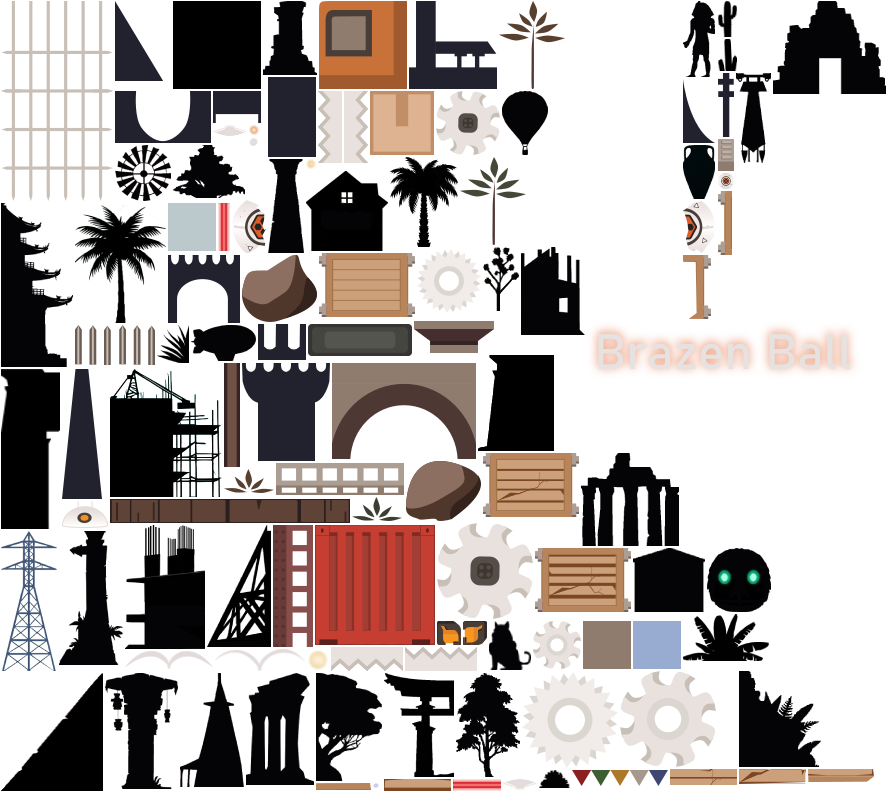
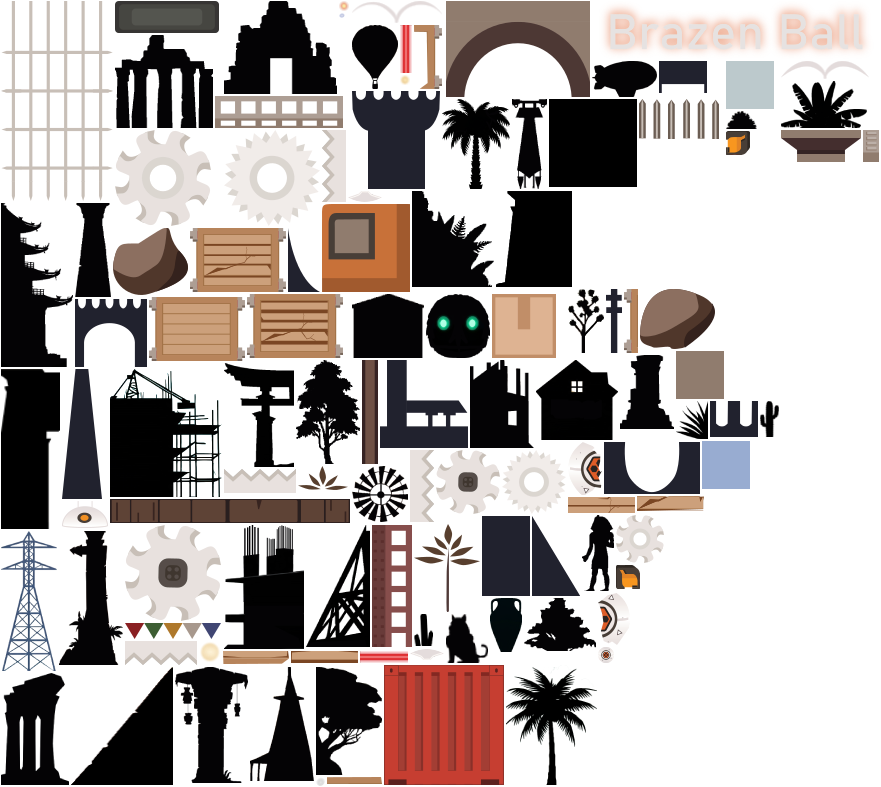
Add Industrial

diff --git a/lib/utils/index.js b/lib/utils/index.js
@@ -177,14 +177,23 @@ export class ObjGraph {
     }
 
     addNodes(nodeNames) {
-        for (const nodeName of nodeNames) {
-            const baseName = nodeName.endsWith("_flipped") ? nodeName.slice(0, -8) : nodeName;
-            if (!this.dimsMap.hasOwnProperty(baseName)) {
-                throw new Error(`Dimension data for node '${baseName}' (or '${nodeName}') is missing in dimsMap.`);
-            }
-            this.nodes.set(nodeName, []);
+    for (const nodeName of nodeNames) {
+        let baseName = nodeName;
+        if (nodeName.endsWith("_flipped")) {
+            baseName = nodeName.slice(0, -8);
         }
+        // Remove _dupe[0-9]+ if present
+        const dupeMatch = baseName.match(/_dupe\d+$/);
+        if (dupeMatch) {
+            baseName = baseName.slice(0, -dupeMatch[0].length);
+        }
+
+        if (!this.dimsMap.hasOwnProperty(baseName)) {
+            throw new Error(`Dimension data for node '${baseName}' (original name: '${nodeName}') is missing in dimsMap.`);
+        }
+        this.nodes.set(nodeName, []);
     }
+}
     addEdge(src, dest, gap = 0, weight = 1) {
         if (!this.nodes.has(src)) {
             throw new Error(`Source node '${src}' does not exist.`);

diff --git a/src/utils/biomes/Industrial.js b/src/utils/biomes/Industrial.js
@@ -1,0 +1,34 @@
+import {  BiomeGen } from "@lib/utils/index.js"
+
+class Industrial extends BiomeGen {
+    height=3
+    constructor(stateMachine, dimsMap) {
+        super(stateMachine, dimsMap);
+        // TODO add transitions
+        this.addTransition("Japan", 1)
+        const { objGraph: graph } = this
+        graph.addNodes([
+           "ct_fac1", // big factory
+           "ct_fac1_flipped", // big factory
+           "ct_fac1_dupe1", // big factory
+           "kiln", // thin kiln
+           "pole", // electricity piole 
+           "fol2", // "foliage4" ssmall like a bush
+           "bush", // "foliage4" ssmall like a bush
+        ])
+
+        graph.setInitialNode("bush")
+
+
+        graph.addEdge("bush", "ct_fac1_flipped", 24)
+
+        graph.addEdge("ct_fac1_flipped", "ct_fac1")
+        graph.addEdge("ct_fac1", "kiln", [32, 48])
+
+        graph.addEdge("kiln", "fol2", 12)
+
+        graph.addEdge("fol2", "pole", 36)
+    }
+}
+
+export default Industrial

diff --git a/src/utils/biomes/Construction.js b/src/utils/biomes/Construction.js
@@ -17,8 +17,8 @@ class Construction extends BiomeGen {
             "tree1",
             "bush",
             "board",
-            "fol4",
-            "pole"
+            "pole",
+            "fol2"
         ])
 
         graph.setInitialNode("board")
@@ -38,7 +38,7 @@ class Construction extends BiomeGen {
 
         graph.addEdge("tree1", "ct_lmark", 54)
 
-        graph.addEdge("ct_lmark_flipped", "fol4", 44)
+        graph.addEdge("ct_lmark_flipped", "fol2", 44)
         graph.addEdge("ct_lmark_flipped", "pole", 44)
         graph.addEdge("pole", "pole", 48, 0.25)
         graph.addEdge("pole", "bush", 32)

diff --git a/src/utils/BGen.js b/src/utils/BGen.js
@@ -3,11 +3,12 @@ import Egypt from "./biomes/Egypt"
 import Construction from "./biomes/Construction"
 import Exotica from "./biomes/Exotica"
 import Japan from "./biomes/Japan"
+import Industrial from "./biomes/Industrial"
 
 class BGen extends BGenMachine {
     constructor(atlasmeta, baseWidth=48, baseHeight=64) {
-        super([ Egypt, Construction, Exotica, Japan ], atlasmeta, baseWidth, baseHeight)
-        this.setInitialBiome(Japan)
+        super([ Egypt, Construction, Exotica, Japan, Industrial ], atlasmeta, baseWidth, baseHeight)
+        this.setInitialBiome(Industrial)
     }
 }
 
